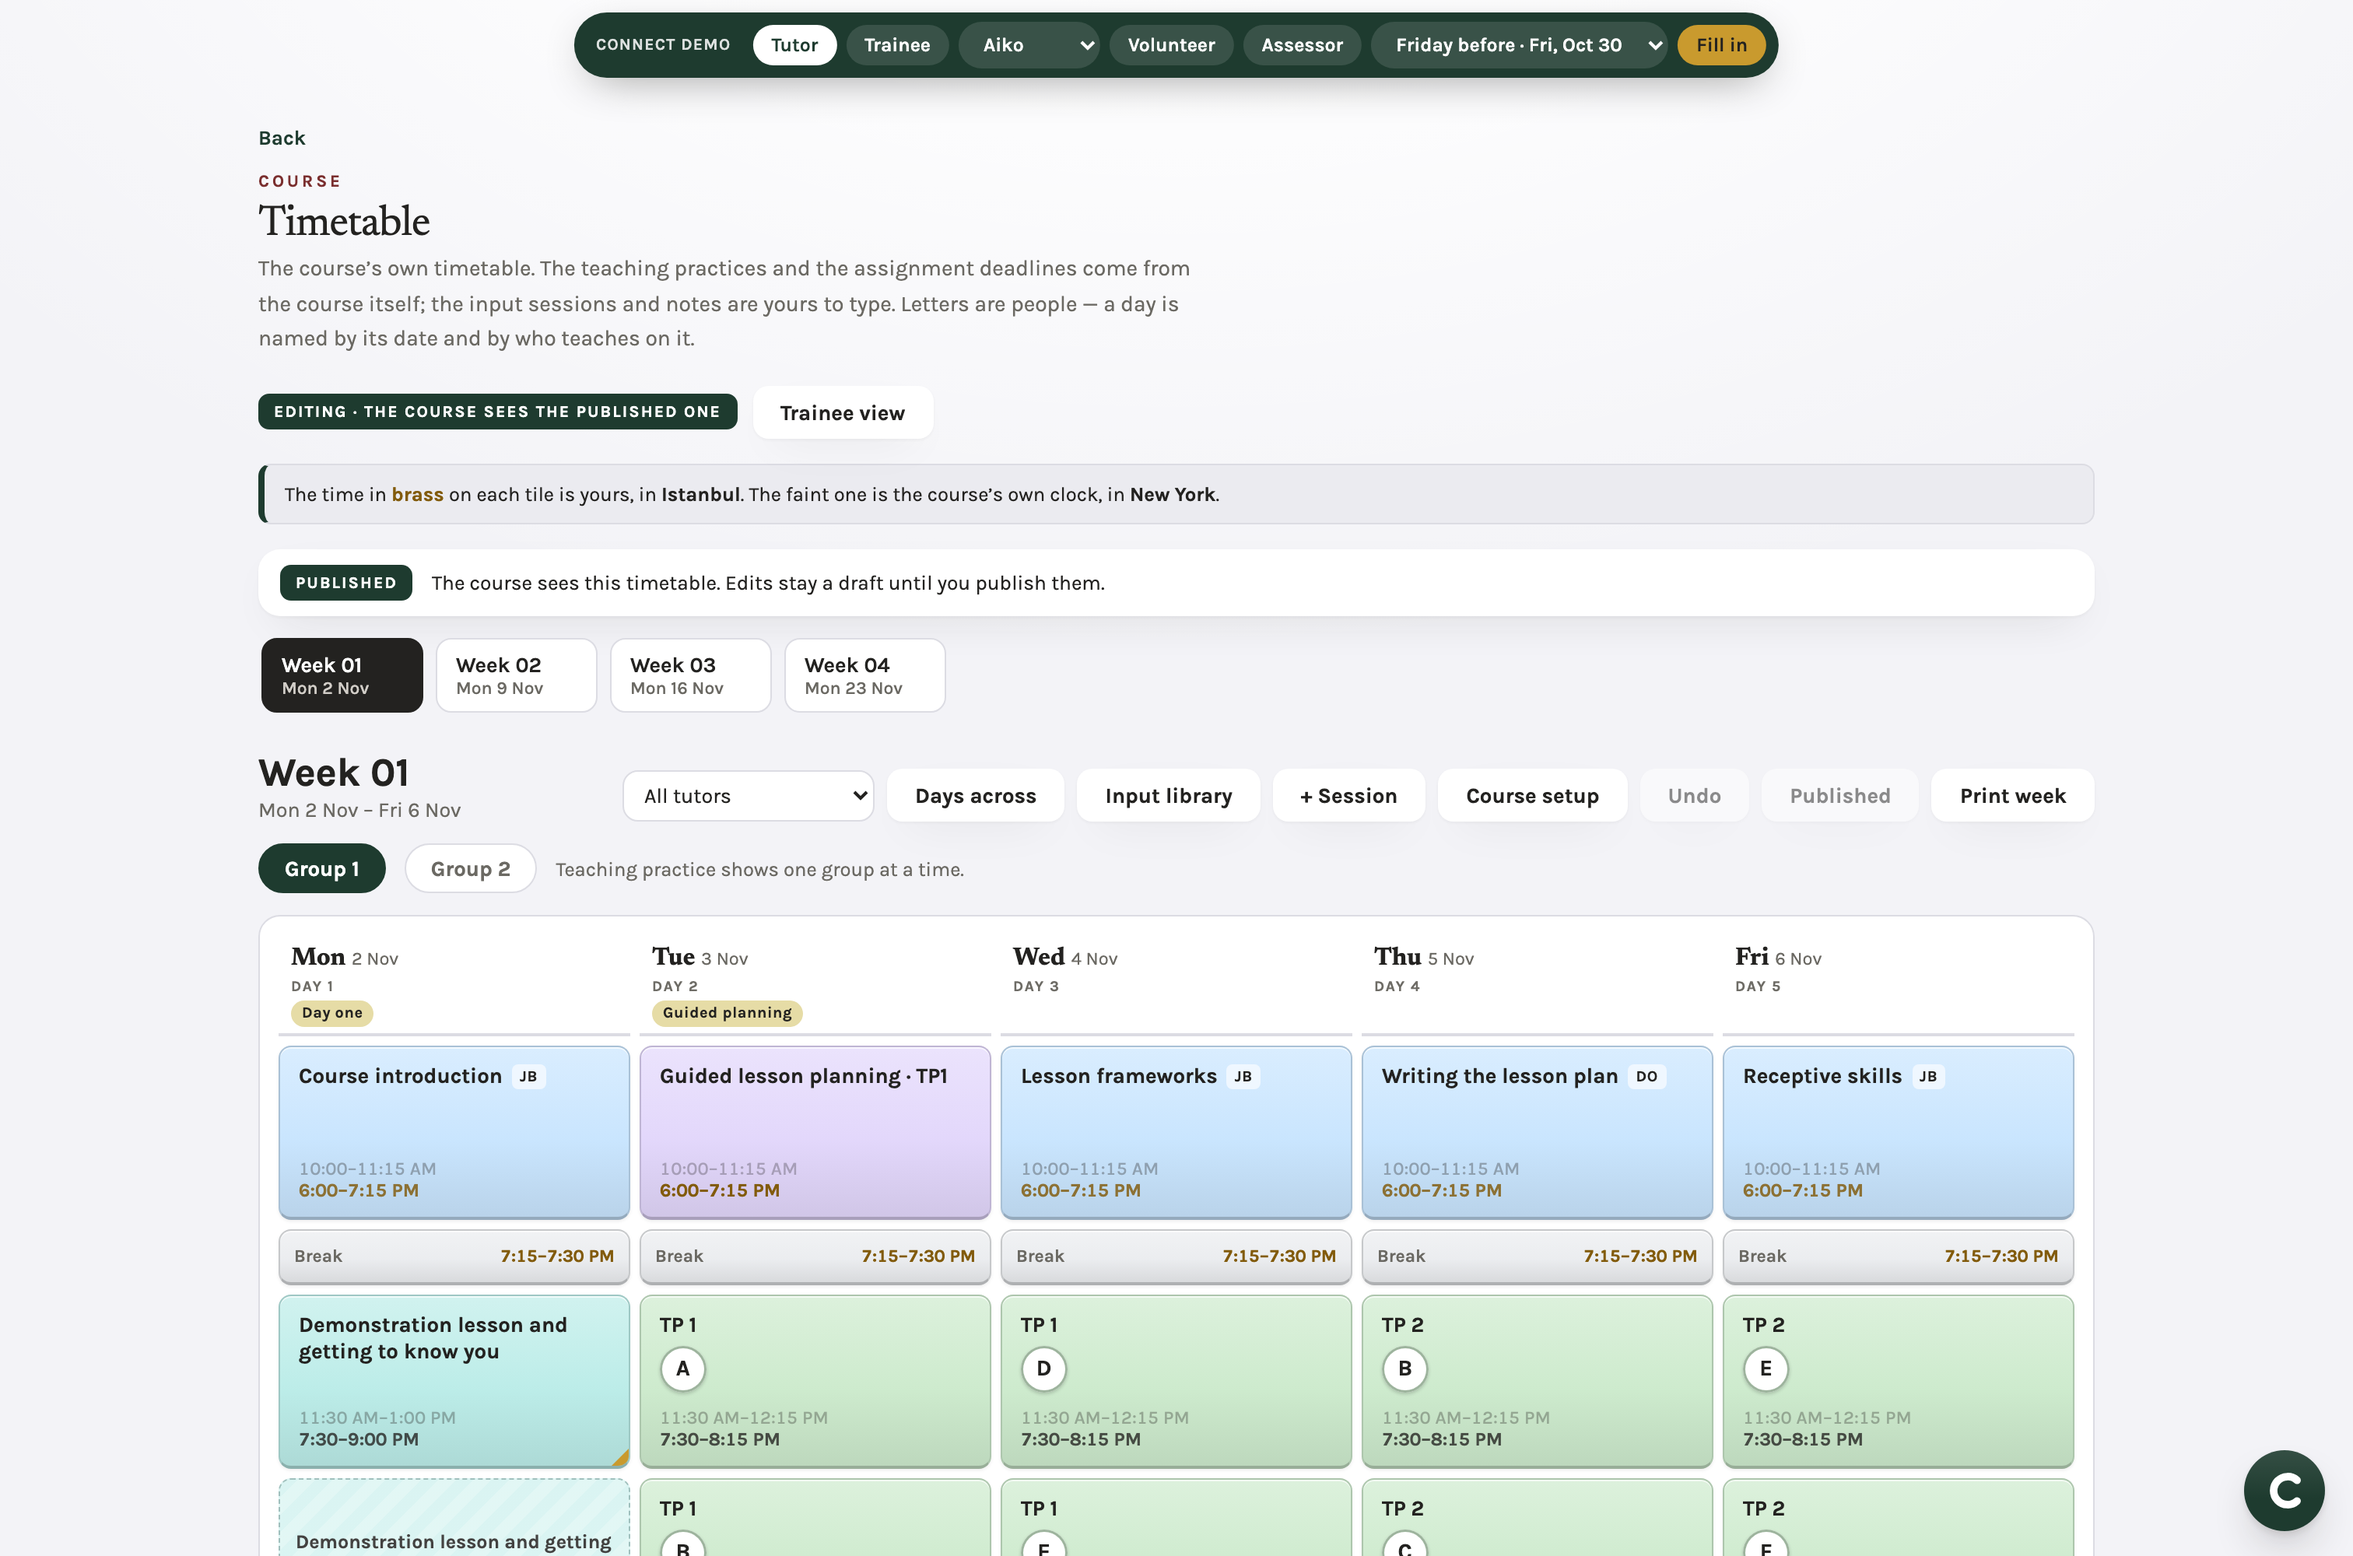
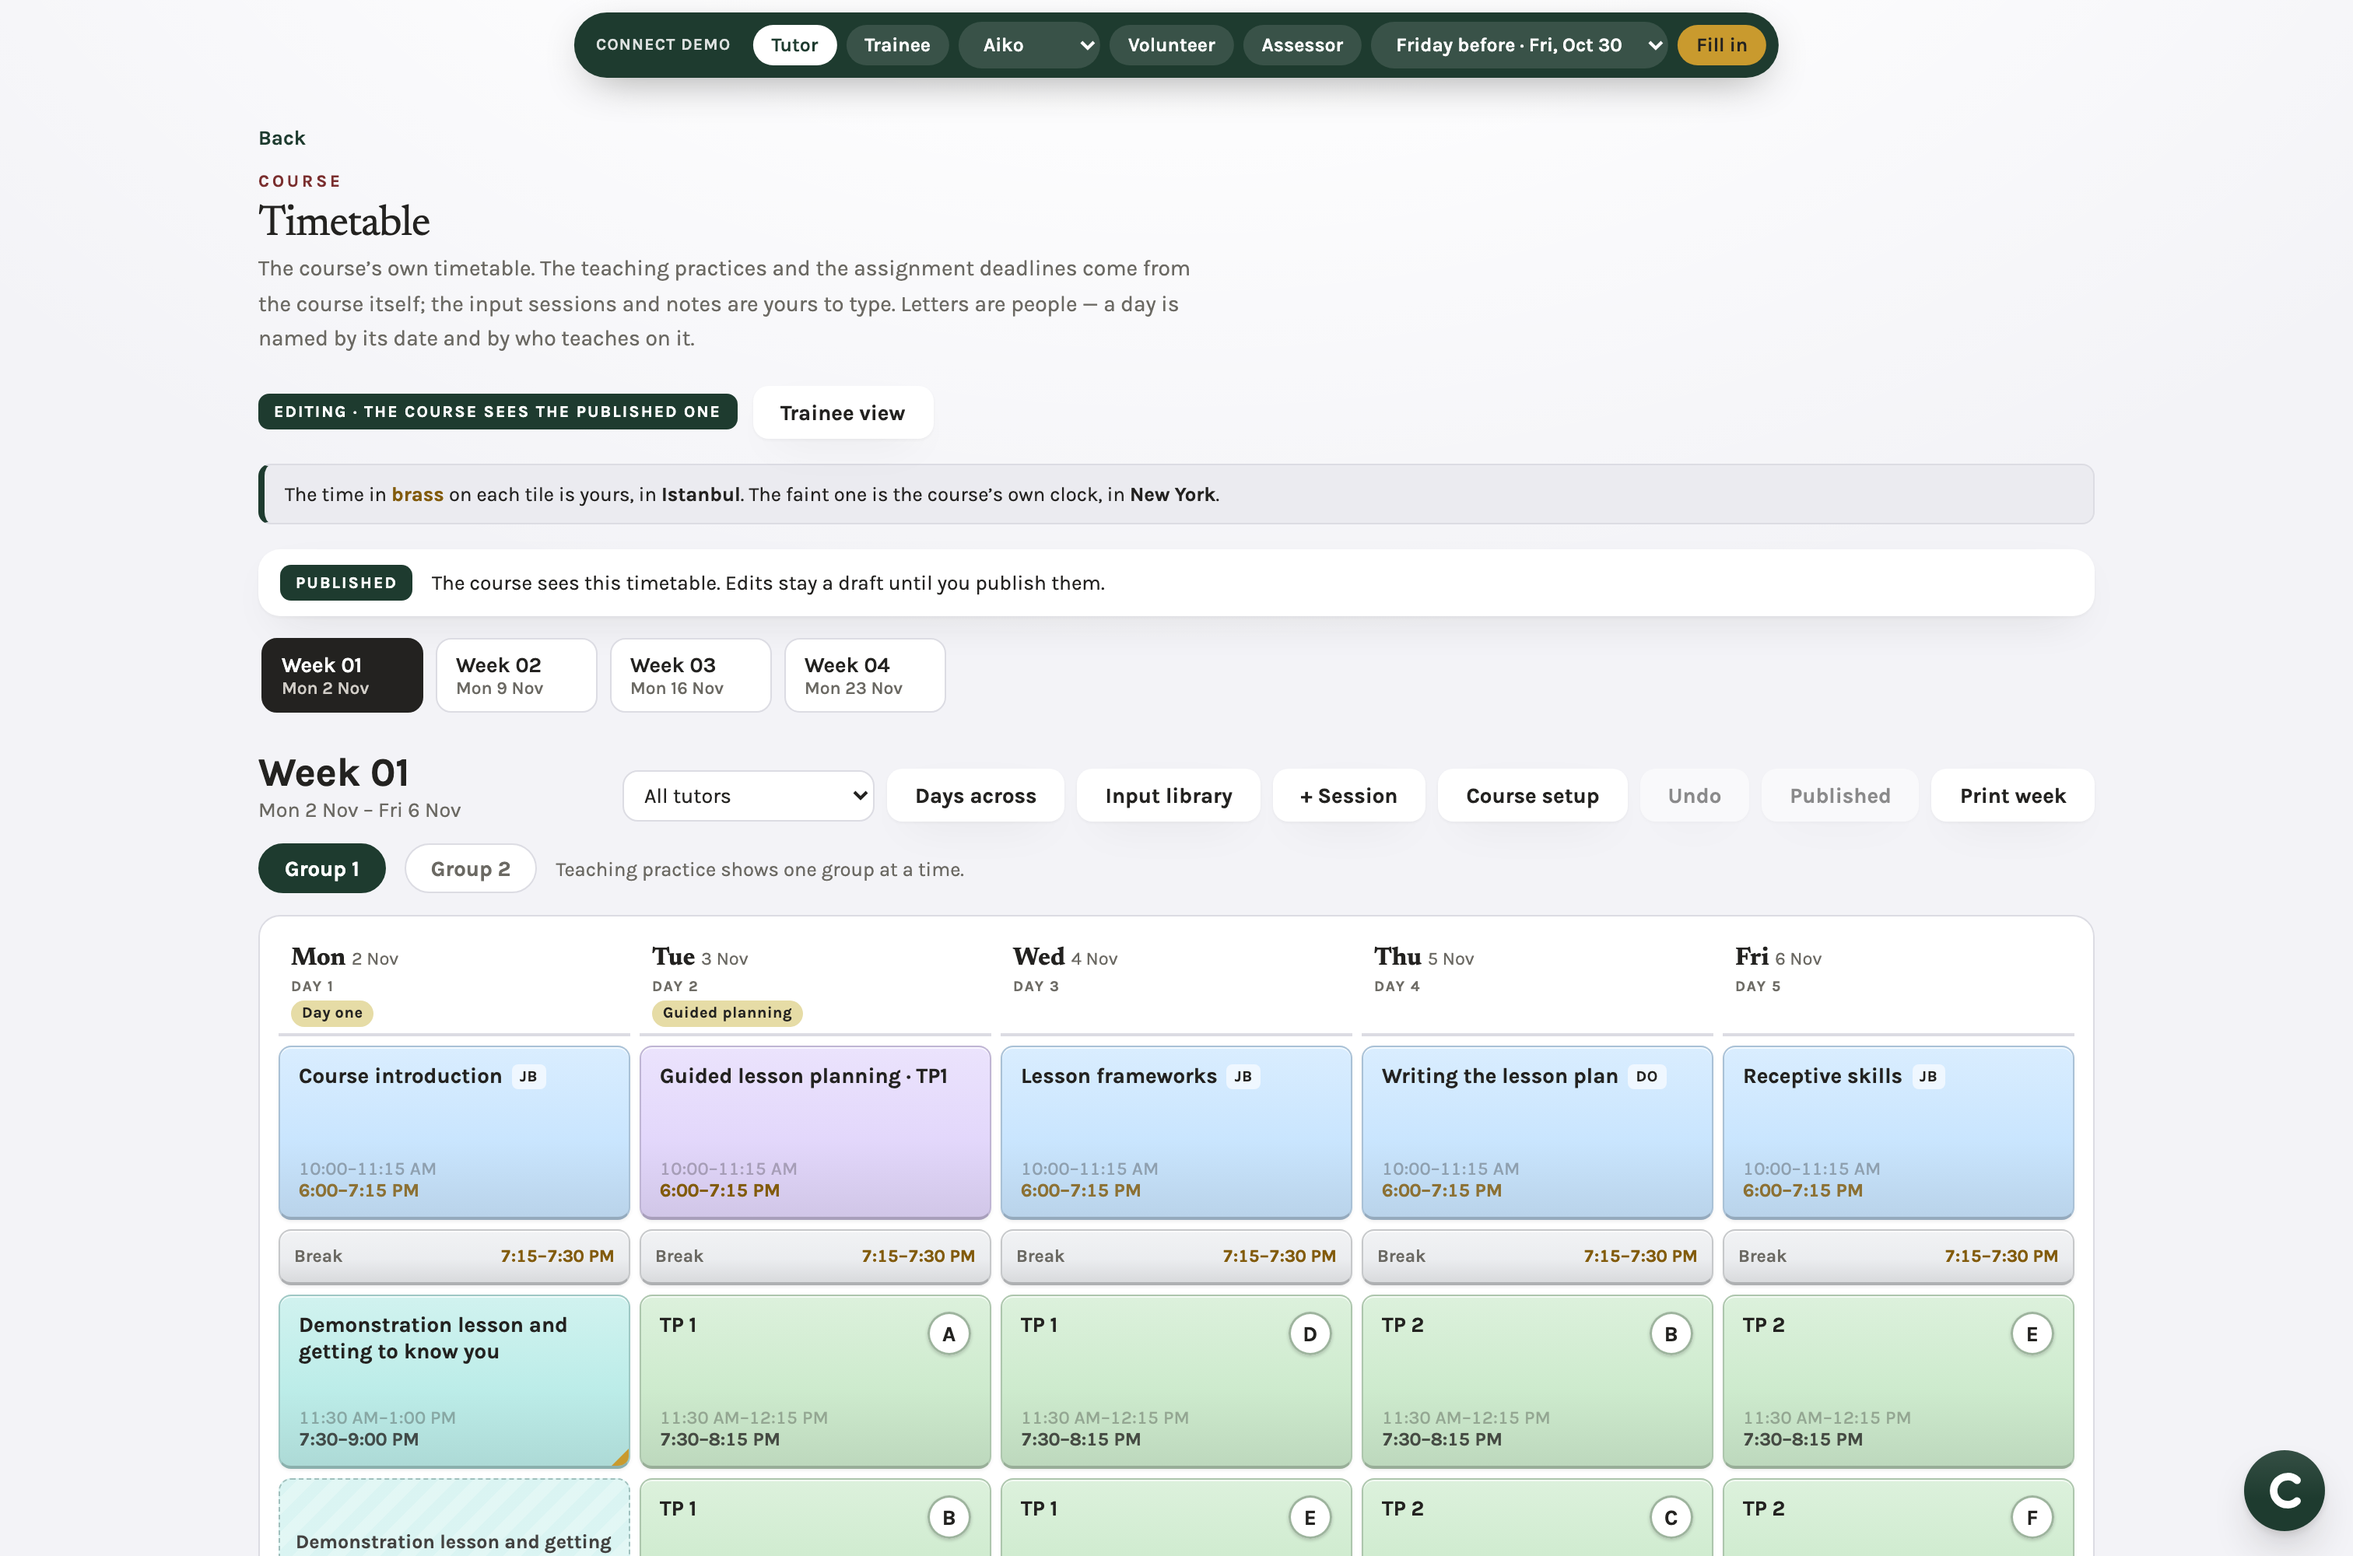
Timetable: the teacher's letter sits in the TP tile's top corner, across from the TP number (Ramy, 30 Oct 2026). The Live badge moves to the bottom corner on a TP tile so the two never meet. Not pushed.

diff --git a/23_timetable.html b/23_timetable.html
@@ -431,7 +431,11 @@
   .tgrid.tboard .tile .tchr.me .av{background:var(--ink); color:var(--paper);}
   .tgrid.tboard .tile .tchr .mk{margin:0;}
   .tgrid.tboard .tile .tchr .gp{font-size:0.62rem; font-weight:700; letter-spacing:.04em; opacity:.7;}
-  .tgrid.tboard .tile.k-tp .tt{display:block; -webkit-line-clamp:unset; overflow:visible;}
+  .tgrid.tboard .tile.k-tp .tt{display:flex; align-items:flex-start; justify-content:space-between; gap:8px; -webkit-line-clamp:unset; overflow:visible;}
+  /* the teacher's letter sits in the corner, across from the TP (Ramy, 30 Oct 2026: "put them in the corner ... across from TP") */
+  .tgrid.tboard .tile.k-tp .tchrs{margin:0; flex:0 0 auto;}
+  .tgrid.tboard .tile.k-tp .tchr .av{width:28px; height:28px; font-size:0.86rem;}
+  .tgrid.tboard .tile.k-tp.joinable::before{top:auto; bottom:6px;}
   /* the one teaching now: the avatar lights up (brass, as the reader's own time) */
   .tgrid.tboard .tile.tv2-now .tchr .av{background:oklch(88% 0.1 90); color:oklch(25% 0.04 60); box-shadow:0 0 0 3px oklch(80% 0.13 85 / .55), 0 0 16px 4px oklch(85% 0.13 85 / .7); animation:teachNow 2.4s ease-in-out infinite;}
   @keyframes teachNow{0%,100%{box-shadow:0 0 0 3px oklch(80% 0.13 85 / .45), 0 0 10px 2px oklch(85% 0.13 85 / .5);} 50%{box-shadow:0 0 0 3px oklch(80% 0.13 85 / .7), 0 0 20px 6px oklch(85% 0.13 85 / .8);}}
